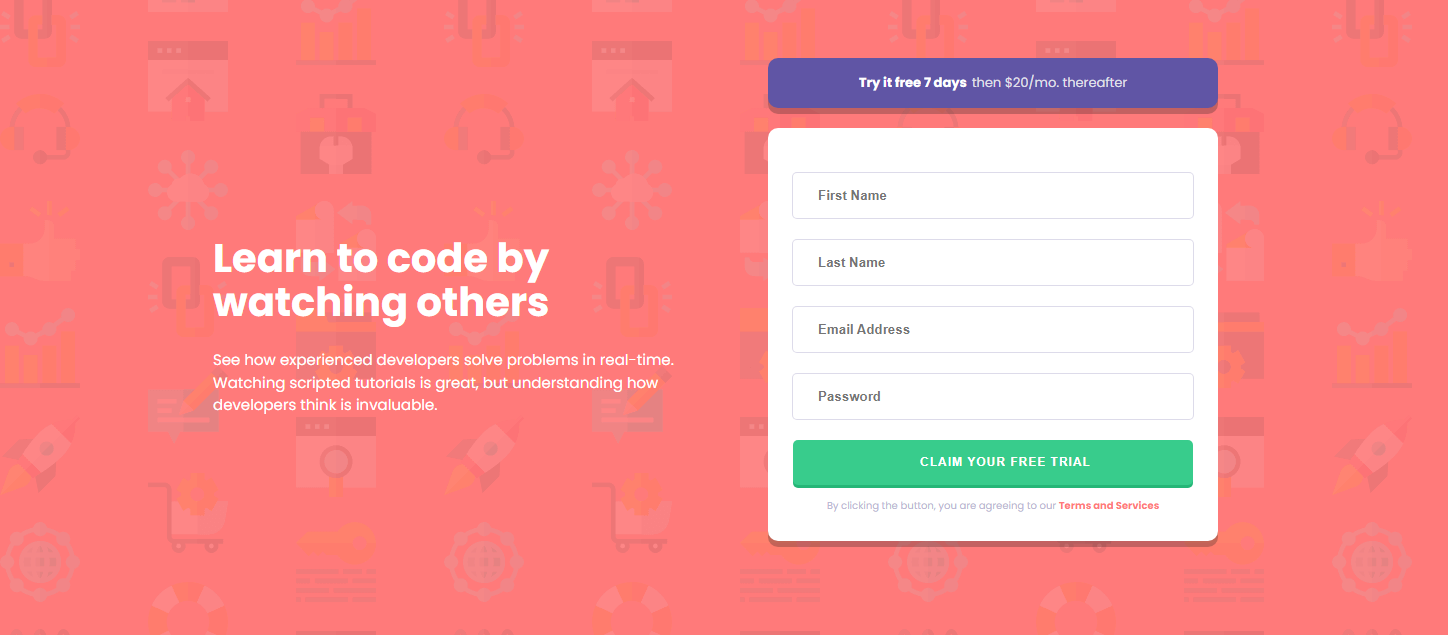
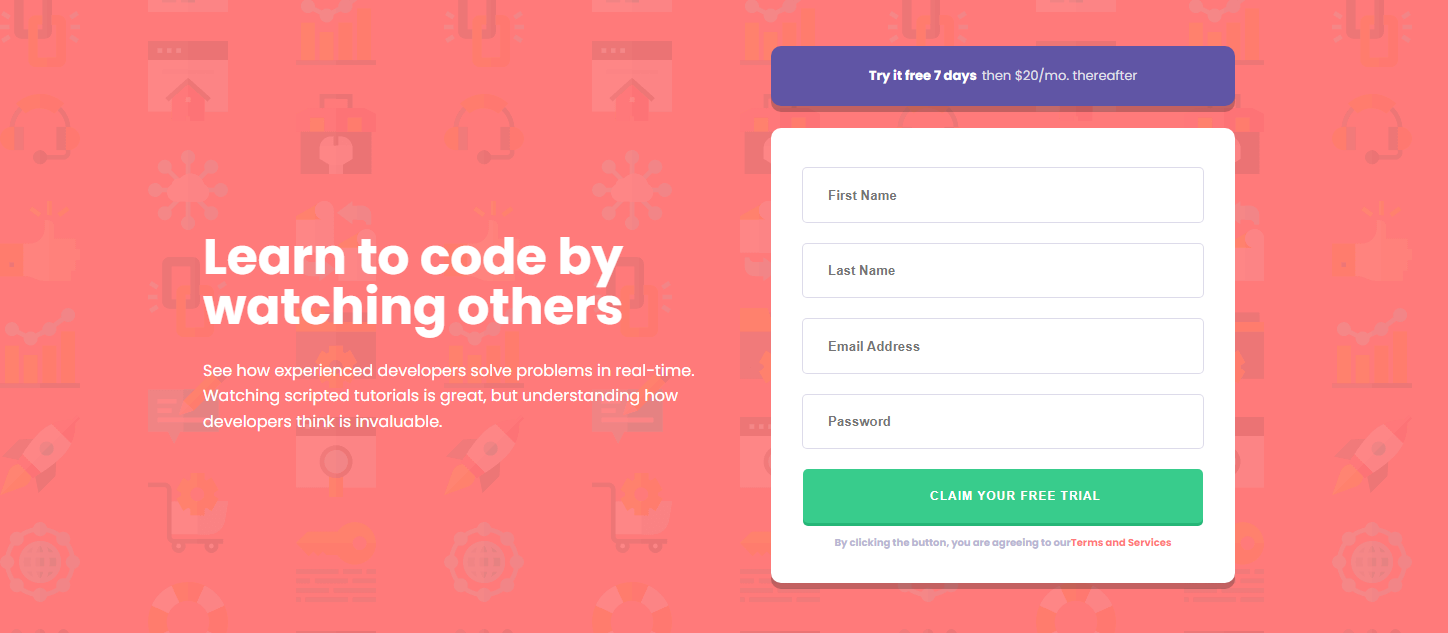
Add files via upload

diff --git a/index.js b/index.js
@@ -23,7 +23,6 @@ let image2 = document.createElement("img");
 let image3 = document.createElement("img");
 let image4 = document.createElement("img");
 
-
 document.forms[0].onsubmit = function (e) {
     let firstName = false;
     let lastName = false;
@@ -38,7 +37,10 @@ document.forms[0].onsubmit = function (e) {
         lastName = true;
     }
 
-    if (mail = /\w@\w\.\w/ig) {
+    let code = /\w+@\w+\.\w+/ig;
+    let valid = code.test(mail.value);
+
+    if (valid === true) {
         email = true;
     }
 
@@ -48,7 +50,7 @@ document.forms[0].onsubmit = function (e) {
 
     if (firstName === false) {
         paragragh1.appendChild(text1);
-        paragragh1.style.cssText = "font-style: italic; color: hsl(0, 100%, 74%); width: 375px; height: 10px; padding: 0; margin: 0; display: flex; justify-content: end; margin-top: -20px; margin-right: -20px;";
+        paragragh1.style.cssText = "font-size:11px; font-style: italic; color: hsl(0, 100%, 74%); width: 375px; height: 10px; padding: 0; margin: 0; display: flex; justify-content: end; margin-top: -20px; margin-right: -20px;";
         first.style.cssText = "border:2px solid hsla(0, 100%, 74%);";
         first.setAttribute("placeholder", "");
         first.after(paragragh1);
@@ -62,7 +64,7 @@ document.forms[0].onsubmit = function (e) {
 
     if (lastName === false) {
         paragragh2.appendChild(text2);
-        paragragh2.style.cssText = "font-style: italic; color: hsl(0, 100%, 74%); width: 375px; height: 10px; padding: 0; margin: 0; display: flex; justify-content: end; margin-top: -20px; margin-right: -20px;";
+        paragragh2.style.cssText = "font-size:11px; font-style: italic; color: hsl(0, 100%, 74%); width: 375px; height: 10px; padding: 0; margin: 0; display: flex; justify-content: end; margin-top: -20px; margin-right: -20px;";
         last.style.cssText = "border:2px solid hsla(0, 100%, 74%);";
         last.setAttribute("placeholder", "");
         last.after(paragragh2);
@@ -76,7 +78,7 @@ document.forms[0].onsubmit = function (e) {
 
     if (email === false) {
         paragragh3.appendChild(text3);
-        paragragh3.style.cssText = "font-style: italic; color: hsl(0, 100%, 74%); width: 375px; height: 10px; padding: 0; margin: 0; display: flex; justify-content: end; margin-top: -20px; margin-right: -20px;";
+        paragragh3.style.cssText = "font-size:11px; font-style: italic; color: hsl(0, 100%, 74%); width: 375px; height: 10px; padding: 0; margin: 0; display: flex; justify-content: end; margin-top: -20px; margin-right: -20px;";
         mail.style.cssText = "color: hsl(0, 100%, 74%); border:2px solid hsla(0, 100%, 74%);";
         mail.setAttribute("placeholder", "");
         mail.after(paragragh3);
@@ -90,7 +92,7 @@ document.forms[0].onsubmit = function (e) {
 
     if (password === false) {
         paragragh4.appendChild(text4);
-        paragragh4.style.cssText = "font-style: italic; color: hsl(0, 100%, 74%); width: 375px; height: 10px; padding: 0; margin: 0; display: flex; justify-content: end; margin-top: -20px; margin-right: -20px;";
+        paragragh4.style.cssText = "font-size:11px; font-style: italic; color: hsl(0, 100%, 74%); width: 375px; height: 10px; padding: 0; margin: 0; display: flex; justify-content: end; margin-top: -20px; margin-right: -20px;";
         pass.style.cssText = "border:2px solid hsla(0, 100%, 74%);";
         pass.setAttribute("placeholder", "");
         pass.after(paragragh4);
@@ -103,5 +105,4 @@ document.forms[0].onsubmit = function (e) {
     }
 
     submit.style.cssText = "background-color: hsla(154, 59%, 51%, 0.479); box-shadow: 0 3px 0 0 hsla(154, 66%, 43%, 0.600);";
-
 };

diff --git a/index.scss b/index.scss
@@ -21,25 +21,25 @@ main {
     display: flex;
     flex-direction: column;
     justify-content: center;
-    margin-right: 30px;
+    margin-right: 50px;
 }
 
 h1 {
-    font-size: 40px;
+    font-size: 50px;
     font-weight: bold;
     margin-bottom: 10px;
-    line-height: 1.1;
+    line-height: 1;
 }
 
 .left p {
-    font-size: 15px;
-    line-height: 1.5;
+    font-size: 16px;
+    line-height: 1.6;
 }
 
 .right {
     
     width: 500px;
-    height: 85vh;
+    height: 88vh;
     display: flex;
     flex-direction: column;
     align-items: center;
@@ -47,7 +47,9 @@ h1 {
 
 .header {
     width: 450px;
-    height: 50px;
+    height: 60px;
+    padding-right: 7px;
+    padding-left: 7px;
     background-color: hsl(248, 32%, 49%);
     color: hsl(240, 20%, 90%);
     font-size: 13px;
@@ -57,7 +59,7 @@ h1 {
     align-items: center;
     border-radius: 10px;
     box-shadow: 0 6px 0 0 hsla(0, 0%, 10%, 0.26);
-    margin-bottom: 20px;
+    margin-bottom: 7px;
 }
 
 .header .span {
@@ -68,30 +70,25 @@ h1 {
 
 }
 
-.form {
-    width: 450px;
-    height: 65vh;
-    display: flex;
-    flex-direction: column;
-    align-items: center;
-    background-color: white;
-    border-radius: 10px;
-    box-shadow: 0 6px 0 0 hsla(0, 0%, 10%, 0.26);
-}
-
 form {
-    width: 430px;
-    height: 55vh;
+    background-color: white;
+    width: 450px;
+    height: 60vh;
+    padding-top: 20px;
+    padding-right: 7px;
+    padding-left: 7px;
     display: flex;
     flex-direction: column;
     justify-content:center;
     align-items: center;
     margin-top: 15px;
+    border-top-left-radius: 10px;
+    border-top-right-radius: 10px;
 }
 
 input {
     width: 375px;
-    height: 45px;
+    height: 60px;
     padding: 0;
     margin-top: 20px;
     border-radius: 5px;
@@ -122,7 +119,16 @@ form input:last-child {
 .footer {
     color: hsl(246, 25%, 77%);
     font-size: 10px;
-    margin-top: 5px;
+    height: 40px;
+    padding-bottom: 20px;
+    margin-top: 0;
+    display: flex;
+    justify-content: center;
+    align-items: center;
+    background-color: white;
+    box-shadow: 0 6px 0 0 hsla(0, 0%, 10%, 0.26);
+    border-bottom-left-radius: 10px;
+    border-bottom-right-radius: 10px;
 }
 
 .footer span {

diff --git a/index.css b/index.css
@@ -21,24 +21,24 @@ main {
   display: flex;
   flex-direction: column;
   justify-content: center;
-  margin-right: 30px;
+  margin-right: 50px;
 }
 
 h1 {
-  font-size: 40px;
+  font-size: 50px;
   font-weight: bold;
   margin-bottom: 10px;
-  line-height: 1.1;
+  line-height: 1;
 }
 
 .left p {
-  font-size: 15px;
-  line-height: 1.5;
+  font-size: 16px;
+  line-height: 1.6;
 }
 
 .right {
   width: 500px;
-  height: 85vh;
+  height: 88vh;
   display: flex;
   flex-direction: column;
   align-items: center;
@@ -46,7 +46,9 @@ h1 {
 
 .header {
   width: 450px;
-  height: 50px;
+  height: 60px;
+  padding-right: 7px;
+  padding-left: 7px;
   background-color: hsl(248, 32%, 49%);
   color: hsl(240, 20%, 90%);
   font-size: 13px;
@@ -56,7 +58,7 @@ h1 {
   align-items: center;
   border-radius: 10px;
   box-shadow: 0 6px 0 0 hsla(0, 0%, 10%, 0.26);
-  margin-bottom: 20px;
+  margin-bottom: 7px;
 }
 
 .header .span {
@@ -66,30 +68,25 @@ h1 {
   margin-right: 5px;
 }
 
-.form {
-  width: 450px;
-  height: 65vh;
-  display: flex;
-  flex-direction: column;
-  align-items: center;
-  background-color: white;
-  border-radius: 10px;
-  box-shadow: 0 6px 0 0 hsla(0, 0%, 10%, 0.26);
-}
-
 form {
-  width: 430px;
-  height: 55vh;
+  background-color: white;
+  width: 450px;
+  height: 60vh;
+  padding-top: 20px;
+  padding-right: 7px;
+  padding-left: 7px;
   display: flex;
   flex-direction: column;
   justify-content: center;
   align-items: center;
   margin-top: 15px;
+  border-top-left-radius: 10px;
+  border-top-right-radius: 10px;
 }
 
 input {
   width: 375px;
-  height: 45px;
+  height: 60px;
   padding: 0;
   margin-top: 20px;
   border-radius: 5px;
@@ -120,7 +117,16 @@ form input:last-child {
 .footer {
   color: hsl(246, 25%, 77%);
   font-size: 10px;
-  margin-top: 5px;
+  height: 40px;
+  padding-bottom: 20px;
+  margin-top: 0;
+  display: flex;
+  justify-content: center;
+  align-items: center;
+  background-color: white;
+  box-shadow: 0 6px 0 0 hsla(0, 0%, 10%, 0.26);
+  border-bottom-left-radius: 10px;
+  border-bottom-right-radius: 10px;
 }
 
 .footer span {

diff --git a/index.html b/index.html
@@ -26,8 +26,8 @@
         <form>
           <input class="st" name="first" type="text" placeholder="First Name">
           <input class="nd" name="last" type="text" placeholder="Last Name">
-          <input class="email" name="mail" type="text" placeholder="Email Address"> 
-          <input class="password" name="pass" type="password" placeholder="Password"> 
+          <input class="mil" name="mail" type="text" placeholder="Email Address"> 
+          <input class="passw" name="pass" type="password" placeholder="Password"> 
           <input name="sub" type="submit" value="Claim your free trial">
         </form>
         <h2 class="footer">By clicking the button, you are agreeing to our <span>Terms and Services</span></h2>

diff --git a/README.md b/README.md
@@ -21,8 +21,7 @@ Users should be able to:
   - The email address is not formatted correctly (i.e. a correct email address should have this structure: `name@host.tld`). The message for this error should say *"Looks like this is not an email"*
 
 ### Screenshot
-
-[![Desktop.png](https://i.postimg.cc/GhGv975N/Desktop.png)](https://postimg.cc/RNCWDR9Q)
+[![Desktop.png](https://i.postimg.cc/3RH51YV3/Desktop.png)](https://postimg.cc/cKTb4ydz)
 [![Mobile.png](https://i.postimg.cc/NMhKhT6X/Mobile.png)](https://postimg.cc/p9ZWzm1V)
 
 ### Links
